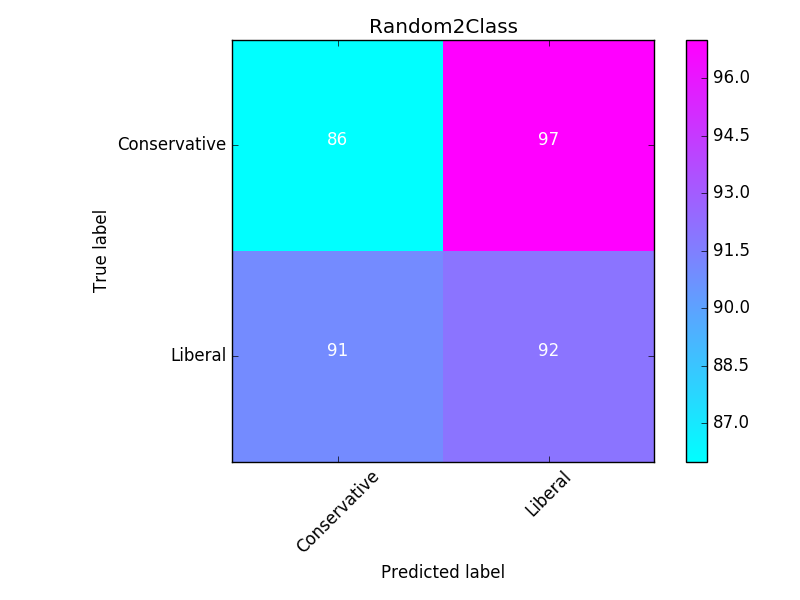
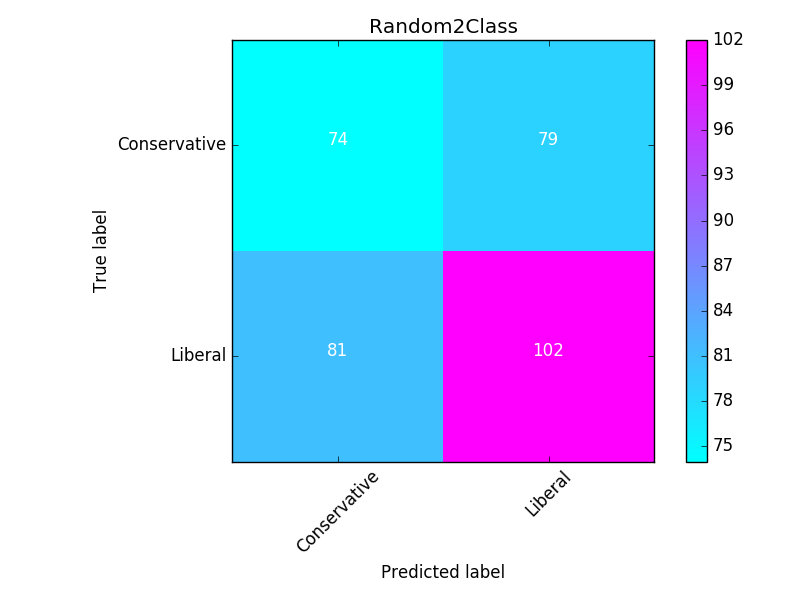
Added log reg experiments

diff --git a/full_ibc/runKFold.py b/full_ibc/runKFold.py
@@ -1,24 +1,28 @@
 import numpy as np
 import cPickle
+import time
 from sklearn.model_selection import train_test_split, StratifiedKFold
-from sklearn.metrics import confusion_matrix
+from sklearn.metrics import confusion_matrix, accuracy_score
 
 import full_ibc.treeUtil as treeUtil
 import util.util as utilities
 import util.visualize as vis
 
 from experiments.test_experiment import randomModel
+import experiments.log_reg_experiments as logReg
 
 # Only change these variables (and the visualizations section if necessary)
 # List of functions that predict two classes
-twoClass = [randomModel]
-twoClassNames = ["Random2Class"]
+twoClass = [randomModel, logReg.simpleLogRegModel, logReg.simpleTfidfLogRegModel] + [logReg.paramLogReg for x in logReg.kwargsList]
+twoClassNames = ["Random2Class", "Simple Log Reg", "Simple Tfidf Log Reg"] + logReg.nameList
+twoClassKwargs = [None, None, None] + logReg.kwargsList
 # List of functions that predict three classes
 threeClass = [randomModel]
 threeClassNames = ["Random3Class"]
 
 def main():
 	# Load data
+	print len(twoClass)
 	path = utilities.findFileOnPath('ibcData.pkl')
 	[lib, con, neutral] = cPickle.load(open(path, 'rb'))
 
@@ -44,28 +48,6 @@ def main():
 	# Separate Test Set
 	X_train, X_test, y_train, y_test = train_test_split(X, y, test_size=0.1, random_state=42, stratify=y)
 
-	# Oversample unbalanced data
-	neutral_indices = np.where(y_train == 0)
-	con_indices = np.where(y_train == -1)
-	lib_indices = np.where(y_train == 1)
-	lib_len = len(lib_indices[0])
-	con_len = len(con_indices[0])
-	neutral_len = len(neutral_indices[0])
-	goalSize = max(neutral_len, con_len, lib_len)
-	np.random.seed(42)
-	X_train = np.append(X_train, np.random.choice(X_train[neutral_indices], 
-		                                          size=(goalSize - neutral_len),
-		                                          replace=True))
-	y_train = np.append(y_train, np.repeat(0, goalSize-neutral_len))
-	X_train = np.append(X_train, np.random.choice(X_train[con_indices], 
-		                                          size=(goalSize - con_len),
-		                                          replace=True))
-	y_train = np.append(y_train, np.repeat(-1, goalSize - con_len))
-	X_train = np.append(X_train, np.random.choice(X_train[lib_indices], 
-		                                          size=(goalSize-lib_len),
-		                                          replace=True))
-	y_train = np.append(y_train, np.repeat(1, goalSize-lib_len))
-
 	numSplits = 10
 	kFold = StratifiedKFold(n_splits=numSplits, shuffle=True, random_state=42)
 	y_pred_2_all = []
@@ -87,9 +69,11 @@ def main():
 
 		y_pred_2_fold = []
 		y_pred_3_fold = []
-		for func in twoClass:
-			y_pred_2_fold.append(func(X_train_k_2, y_train_k_2, X_test_k_2, y_test_k_2))
-
+		for m in range(len(twoClass)):
+			if twoClassKwargs[m] != None:
+				y_pred_2_fold.append(twoClass[m](X_train_k_2, y_train_k_2, X_test_k_2, y_test_k_2, **twoClassKwargs[m]))
+			else:
+				y_pred_2_fold.append(twoClass[m](X_train_k_2, y_train_k_2, X_test_k_2, y_test_k_2))
 		for func in threeClass:
 			y_pred_3_fold.append(func(X_train_k_3, y_train_k_3, X_test_k_3, y_test_k_3))
 		y_pred_2_all.append(y_pred_2_fold)
@@ -97,19 +81,36 @@ def main():
 		y_true_2_all.append(y_test_k_2)
 		y_true_3_all.append(y_test_k_3)
 
-	# Evaluate
-
-	# Visualize
-	# Confusion Matrices for All Folds/Experiments
+	# Evaluate and Visualize
+	# Confusion Matrices and Accuracy for All Folds/Experiments
+	accuracy_all = []
 	for k in xrange(numSplits):
+		accuracy_temp = []
 		for m in xrange(len(twoClass)):
 			y_true = y_true_2_all[k]
 			y_pred = y_pred_2_all[k][m]
 			y_label = np.sign(y_pred)
+			y_label[y_label==0] = 1 # map points of hyperplane to +1
+			accuracy_temp.append(accuracy_score(y_true, y_label))
 			cm = confusion_matrix(y_true, y_label)
 			title = twoClassNames[m]
 			path = "../visualizations/{}/cm_fold{}.png".format(title, k)
 			vis.plotConfusionMatrix(cm, ["Conservative", "Liberal"], path=path, title=title)
+		accuracy_all.append(accuracy_temp)
+	for m in xrange(len(twoClass)):
+		accuracy = [accuracy_all[k][m] for k in xrange(numSplits)]
+		minimum = min(accuracy)
+		maximum = max(accuracy)
+		average = np.average(accuracy)
+		path = "../visualizations/accuracy_results.txt"
+		utilities.mkdir_p(path)
+		with open(path,"a+") as f:
+			toWrite = time.ctime() + ": " + twoClassNames[m] + "\n"
+			toWrite += "Min Accuracy: " + str(minimum) + "\n"
+			toWrite += "Max Accuracy: " + str(maximum) + "\n"
+			toWrite += "Ave Accuracy: " + str(average) + "\n"
+			f.write(toWrite)
+
 	# ROC Plots for All Experiments
 	for m in xrange(len(twoClass)):
 		y_true = y_true_2_all

diff --git a/experiments/log_reg_experiments.py b/experiments/log_reg_experiments.py
@@ -1,0 +1,64 @@
+import itertools
+from sklearn.feature_extraction.text import CountVectorizer, TfidfVectorizer
+from sklearn.linear_model import LogisticRegression
+
+vectorizer = [("vectorizer", x) for x in ["tfidf", "normal"]]
+ngram_range = [("ngram_range", (1,x)) for x in range(1,2)]
+stop_wordsList = [("stop_words",x) for x in ["english", None]]
+max_features = [("max_features", x) for x in [None, 5000]]
+norm = [("norm", x) for x in ["l2", None]]
+allParams = [vectorizer, ngram_range, stop_wordsList, max_features, norm]
+
+kwargsList = [{key:value for key, value in kwargs} for kwargs in itertools.product(*allParams)]
+nameList = [str([(key, value) for key, value in kwargs.iteritems()]) for kwargs in kwargsList]
+
+# Vectorizer Params: 
+# ngram_range=(1, 1), stop_words="english", max_features=None, vocabulary=None
+# norm="l2"
+def paramLogReg(X_train, y_train, X_test, y_test, **kwargs):
+	cv = None
+	if kwargs["vectorizer"] == "tfidf":
+		cv = TfidfVectorizer(ngram_range=kwargs["ngram_range"],
+			                 stop_words=kwargs["stop_words"],
+			                 max_features=kwargs["max_features"],
+			                 norm=kwargs["norm"])
+	else:
+		cv = CountVectorizer(ngram_range=kwargs["ngram_range"],
+			                 stop_words=kwargs["stop_words"],
+			                 max_features=kwargs["max_features"])
+	cv.fit(X_train)
+	train_dtm = cv.transform(X_train)
+	clf = LogisticRegression(class_weight="balanced")
+	clf.fit(train_dtm, y_train)
+
+	test_dtm = cv.transform(X_test)
+	y_pred = clf.decision_function(test_dtm)
+	return y_pred
+
+def simpleLogRegModel(X_train, y_train, X_test, y_test):
+	# ---------------------------- Training Set ------------------------------
+	# Get words and their frequencies
+	cv = CountVectorizer()
+	cv.fit(X_train)
+	train_dtm = cv.transform(X_train)
+	clf = LogisticRegression(class_weight="balanced")
+	clf.fit(train_dtm, y_train)
+
+	# ---------------------------- Testing Set ------------------------------
+	test_dtm = cv.transform(X_test)
+	y_pred = clf.decision_function(test_dtm)
+	return y_pred
+
+def simpleTfidfLogRegModel(X_train, y_train, X_test, y_test):
+	# ---------------------------- Training Set ------------------------------
+	# Get words and their frequencies
+	cv = TfidfVectorizer()
+	cv.fit(X_train)
+	train_dtm = cv.transform(X_train)
+	clf = LogisticRegression(class_weight="balanced")
+	clf.fit(train_dtm, y_train)
+
+	# ---------------------------- Testing Set ------------------------------
+	test_dtm = cv.transform(X_test)
+	y_pred = clf.decision_function(test_dtm)
+	return y_pred
